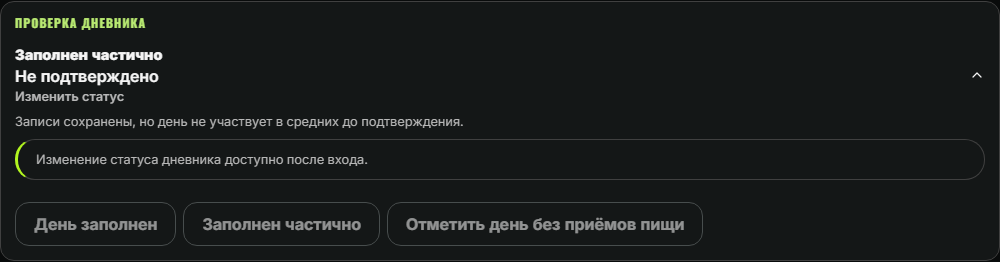
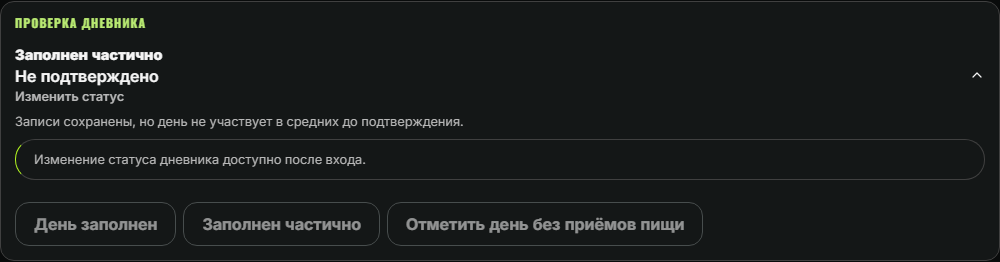
fix: align diary demo notice with design contract

Changed region(s): [[0.031, 0.5802, 0.372, 0.6412]]

diff --git a/frontend/tests/e2e/demo-mode.spec.ts b/frontend/tests/e2e/demo-mode.spec.ts
@@ -1145,6 +1145,10 @@ for (const theme of ['light', 'dark'] as const) {
     await expect(
       card.getByRole('button', { name: 'Заполнен частично', exact: true }),
     ).toBeDisabled();
+    await expect(card.locator('.demo-capability-notice')).toHaveCSS(
+      'border-inline-start-width',
+      '1px',
+    );
     for (const width of [320, 360, 393, 430, 1280]) {
       await page.setViewportSize({ width, height: width === 1280 ? 900 : 844 });
       await card.scrollIntoViewIfNeeded();

diff --git a/frontend/src/styles/react.css b/frontend/src/styles/react.css
@@ -9276,6 +9276,9 @@ html[data-yfc-measurement-pwa='true'] .measurement-diary__form {
   display: grid;
   gap: 10px;
 }
+.nutrition-completeness .demo-capability-notice {
+  border-inline-start-width: 1px;
+}
 .nutrition-completeness__copy {
   display: flex;
   flex-wrap: wrap;

diff --git a/docs/ux-proposals/issue-1436/README.md b/docs/ux-proposals/issue-1436/README.md
@@ -1,6 +1,6 @@
 # #1436 — статус дневника: сравнение
 
-Снимки работающего интерфейса на синтетических данных. BEFORE: dev `6a3b091554c2d457472aeda46cd316c7ace177ff`. AFTER: Git blobs компонента `91f211332f326b62d7622b20ee6f33f4f5637311`, стилей `ca45e6f35dfba1c5501e2ecffbd3121190cf3343` и `57e67baa8c2d8df2b7a9847459af7c9cfa463a51`. Состояния «свёрнут» и «раскрыт» показывают заполненный неподтверждённый день; «пустой», «сохранение» и «ошибка» — пустой день; «демо» — интерфейс только для чтения. Рамка может показывать клавиатурный фокус.
+Снимки работающего интерфейса на синтетических данных. BEFORE: dev `6a3b091554c2d457472aeda46cd316c7ace177ff`. AFTER: Git blobs компонента `91f211332f326b62d7622b20ee6f33f4f5637311`, стилей `1d075dabf3341f559314f6b8f2dd0beb0e13cba6` и `57e67baa8c2d8df2b7a9847459af7c9cfa463a51`. Состояния «свёрнут» и «раскрыт» показывают заполненный неподтверждённый день; «пустой», «сохранение» и «ошибка» — пустой день; «демо» — интерфейс только для чтения. Рамка может показывать клавиатурный фокус.
 
 Это браузерная проверка, а не приёмка владельца, проверка screen reader или физического устройства.
 
